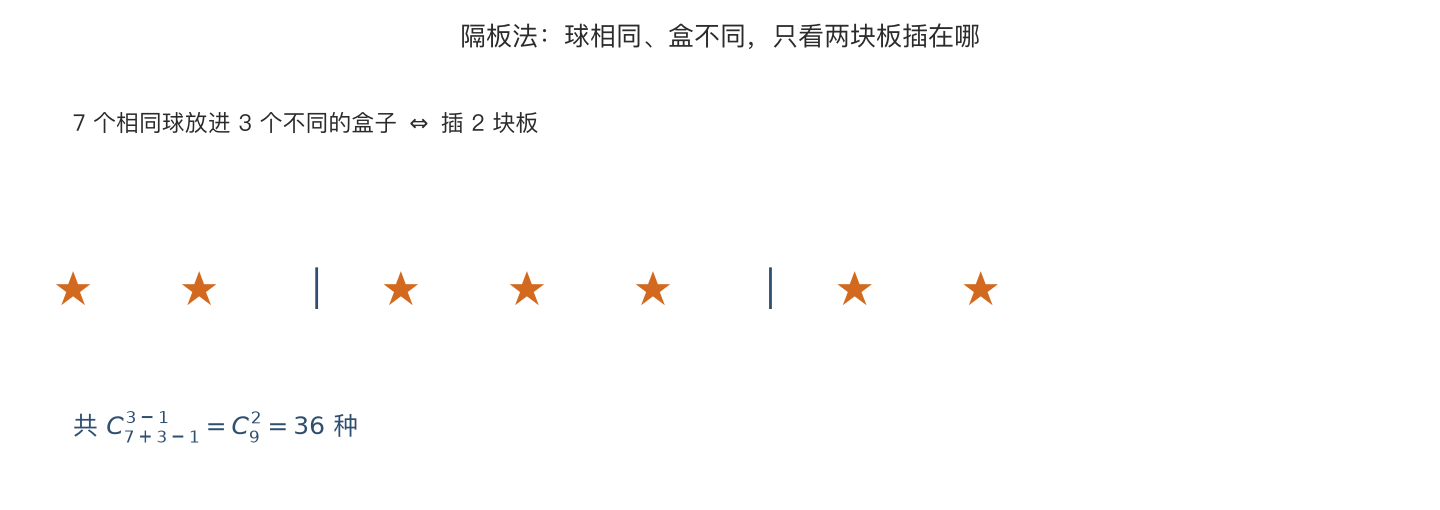
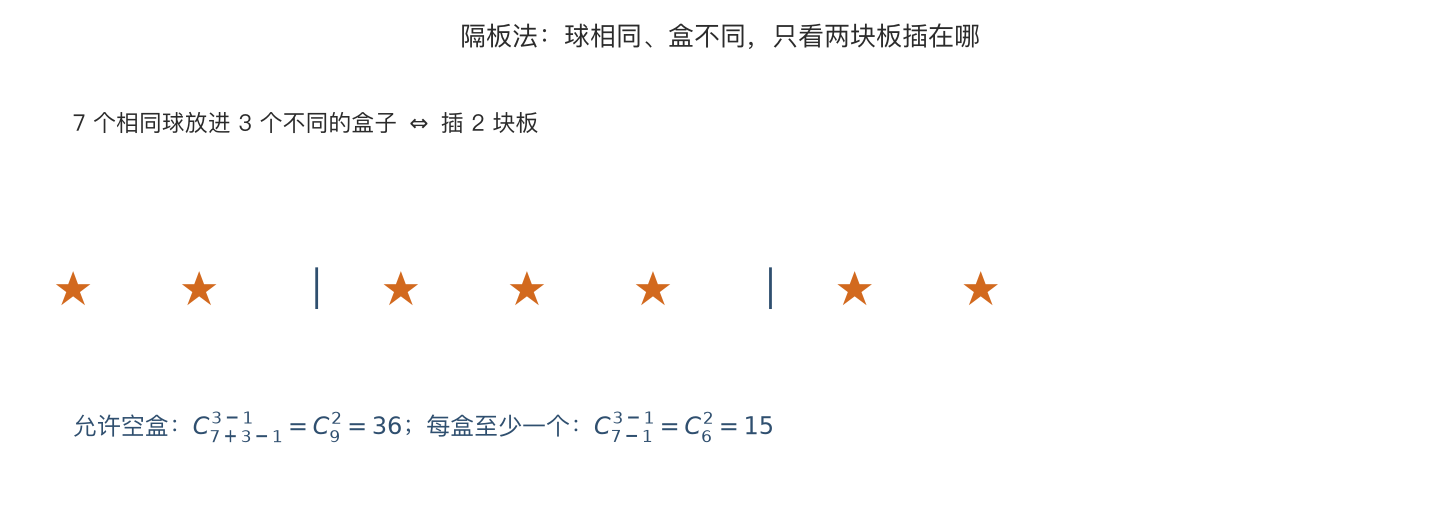
img: refresh comb-stars with both counting cases

Changed region(s): [[0.0312, 0.7941, 0.5312, 0.8824]]

diff --git a/img/kaoyan-math/make_logic_comb_figs.py b/img/kaoyan-math/make_logic_comb_figs.py
@@ -345,7 +345,8 @@ for i in range(n_star):
         pos += 0.45
 ax.text(0.6, 1.75, r"7 个相同球放进 3 个不同的盒子 $\Leftrightarrow$ 插 2 块板", fontsize=11,
         color=INK, ha="left")
-ax.text(0.6, 0.30, r"共 $C_{7+3-1}^{3-1}=C_9^2=36$ 种", fontsize=12, color=BLUE, ha="left")
+ax.text(0.6, 0.30, r"允许空盒：$C_{7+3-1}^{3-1}=C_9^2=36$；每盒至少一个：$C_{7-1}^{3-1}=C_6^2=15$",
+        fontsize=11.5, color=BLUE, ha="left")
 ax.set_xlim(0.3, 8.6); ax.set_ylim(0.05, 2.1)
 ax.axis("off")
 ax.set_title("隔板法：球相同、盒不同，只看两块板插在哪", fontsize=12.5, color=INK)
